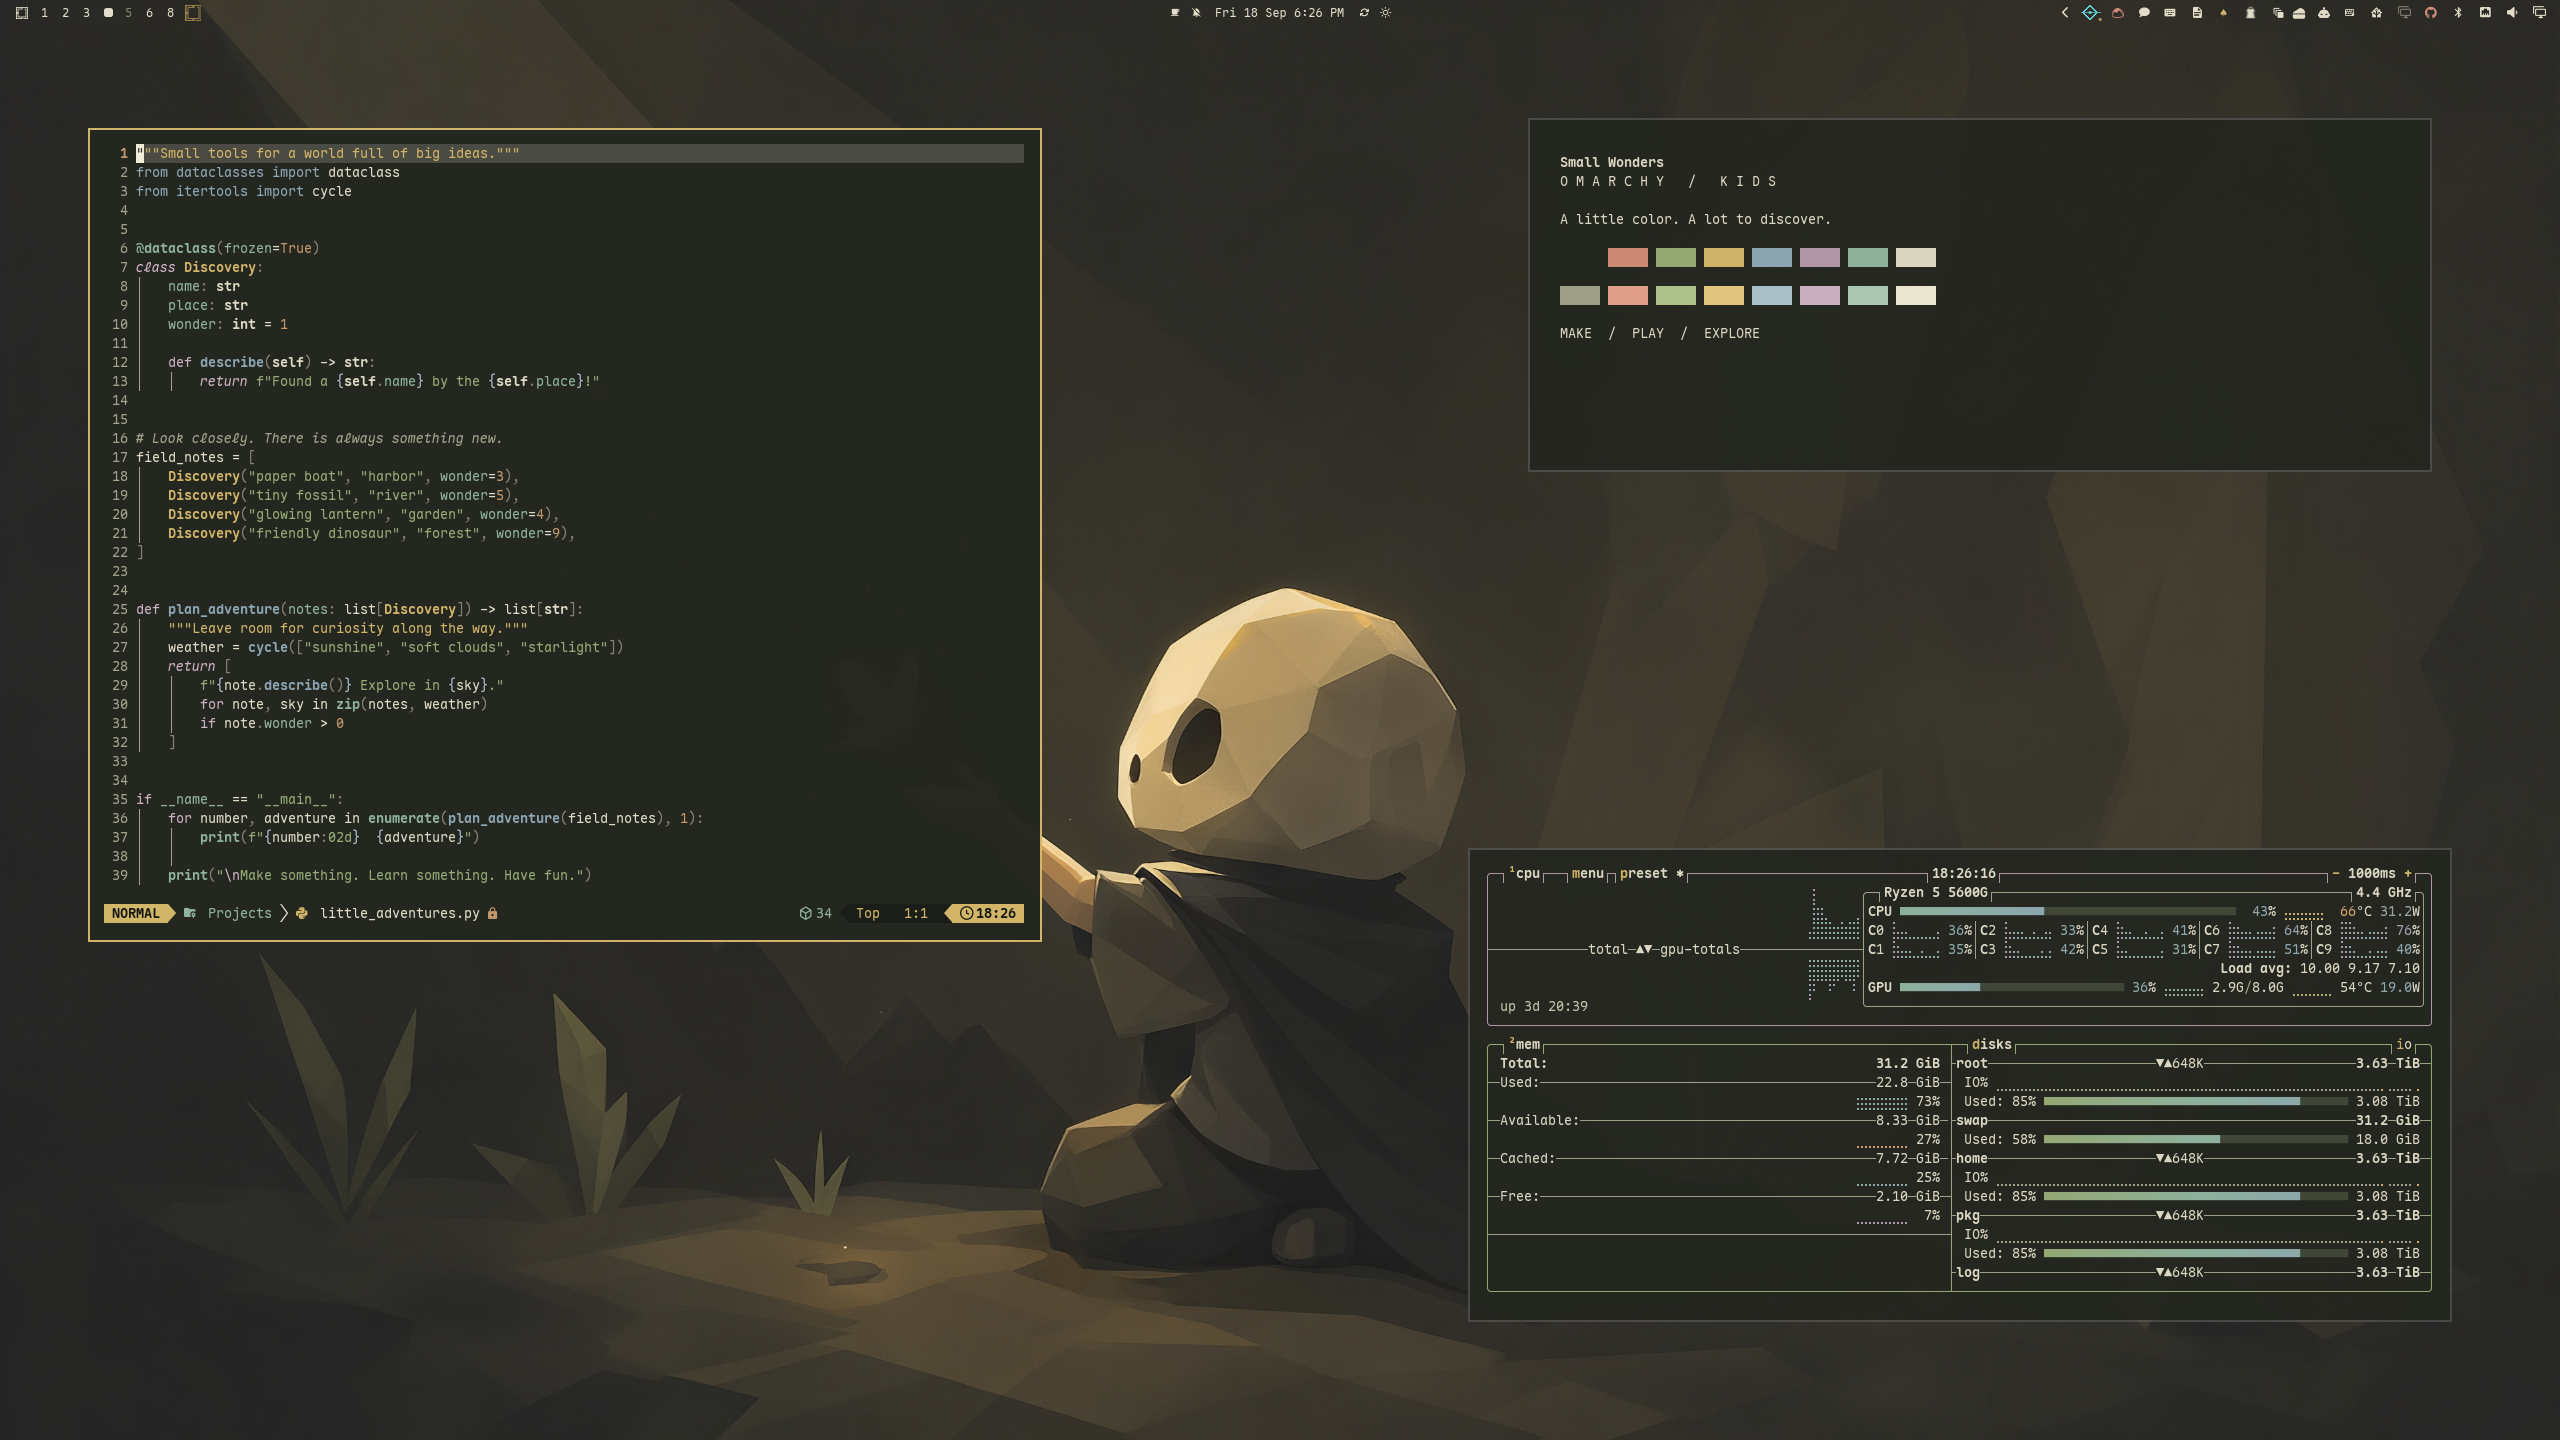
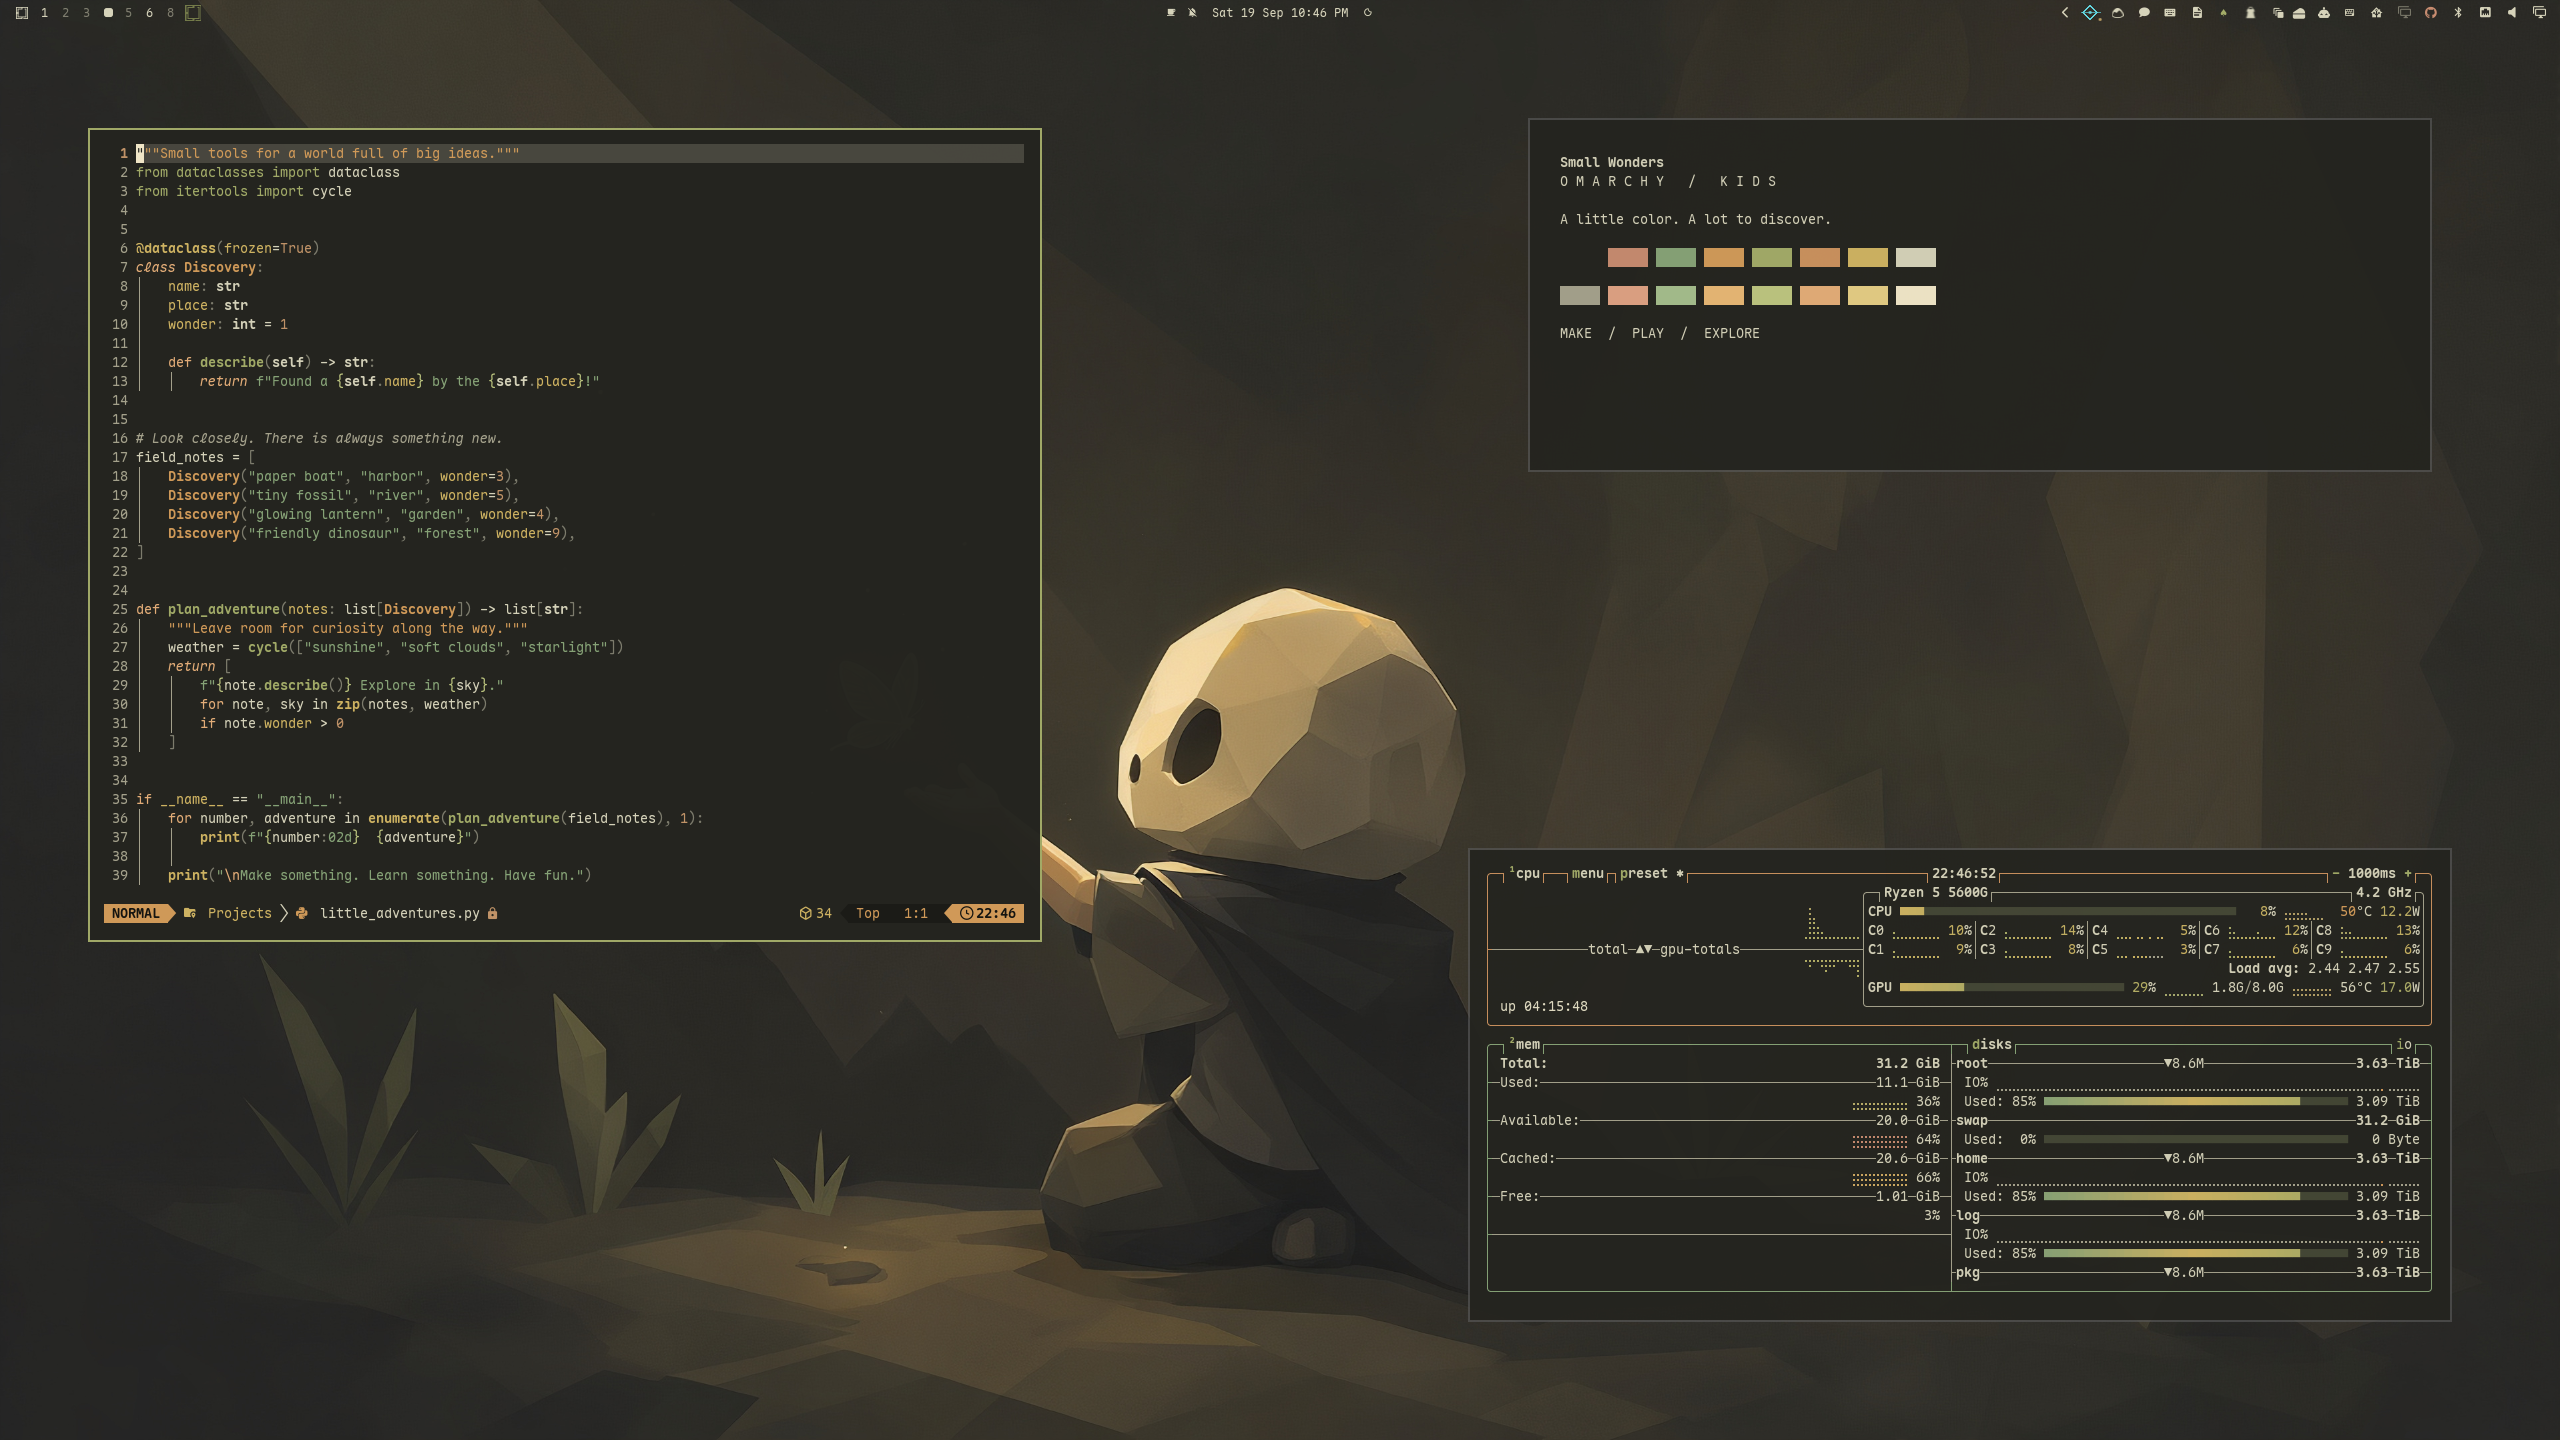
Refresh Small Wonders preview for the Miasma palette

diff --git a/themes/small-wonders/README.md b/themes/small-wonders/README.md
@@ -6,6 +6,6 @@ A welcoming Miasma adaptation with smoky charcoal, linen text, mossy olive, fern
 
 The palette is in `colors.toml`; wallpapers are in `backgrounds/`. A matching Base24 export is included. Text and accent roles meet 4.5:1 against base and panel backgrounds in static checks.
 
-`preview.png` shows the previous palette on a live Omarchy desktop; the revised palette has not yet received an updated screenshot or live visual verification.
+`preview.png` shows the revised palette on a live Omarchy desktop, captured at 2560×1440 with Frameshot: Nature of Hope wallpaper, Neovim, an ANSI palette card, and btop.
 
 See `ATTRIBUTION.md` for creator credits and wallpaper source links.
